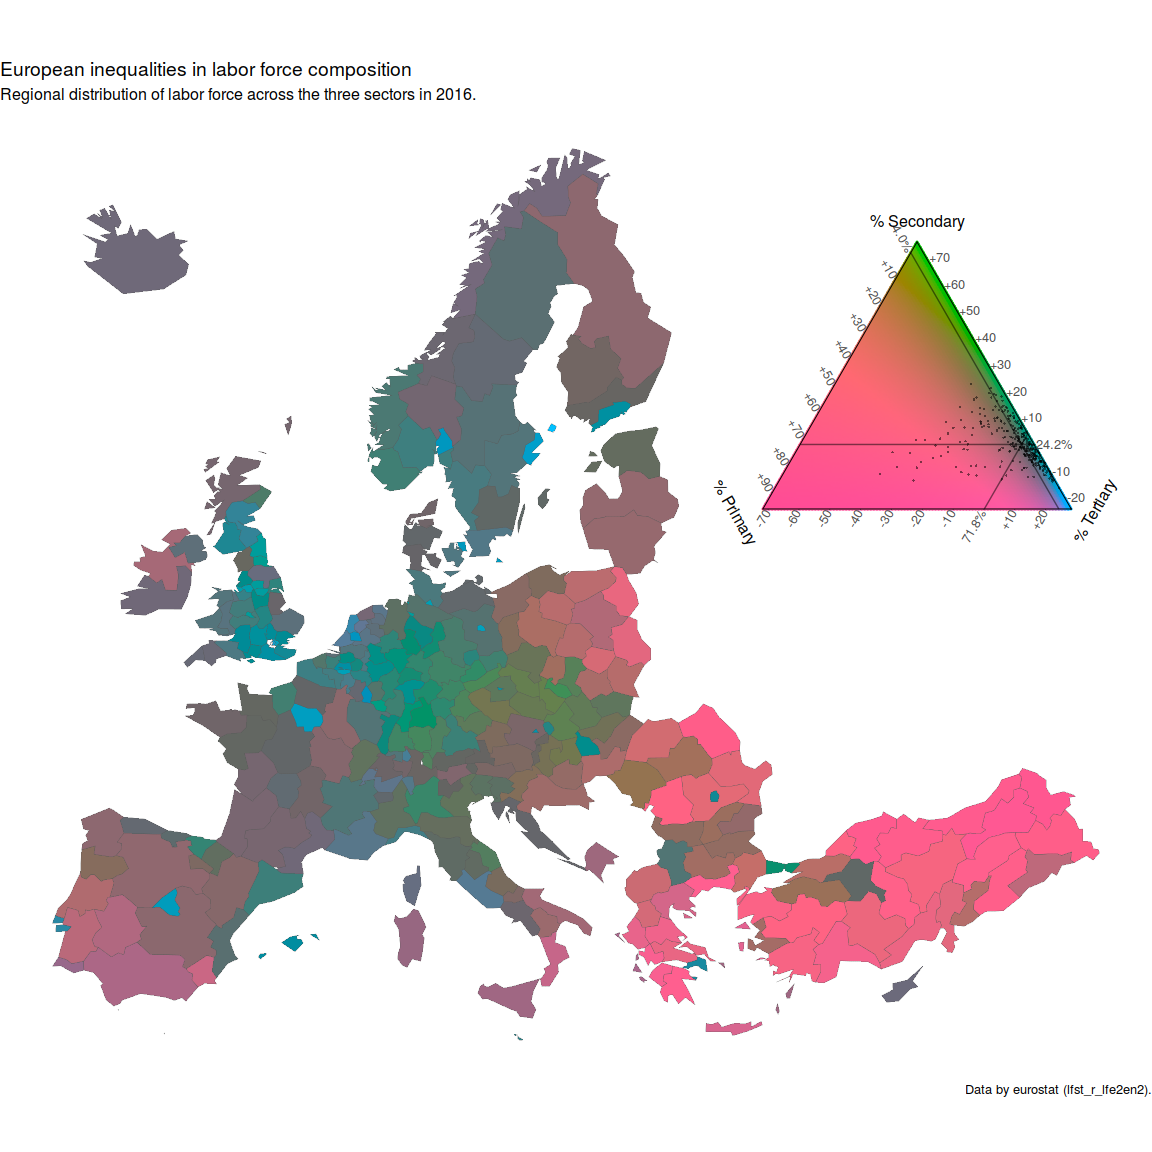
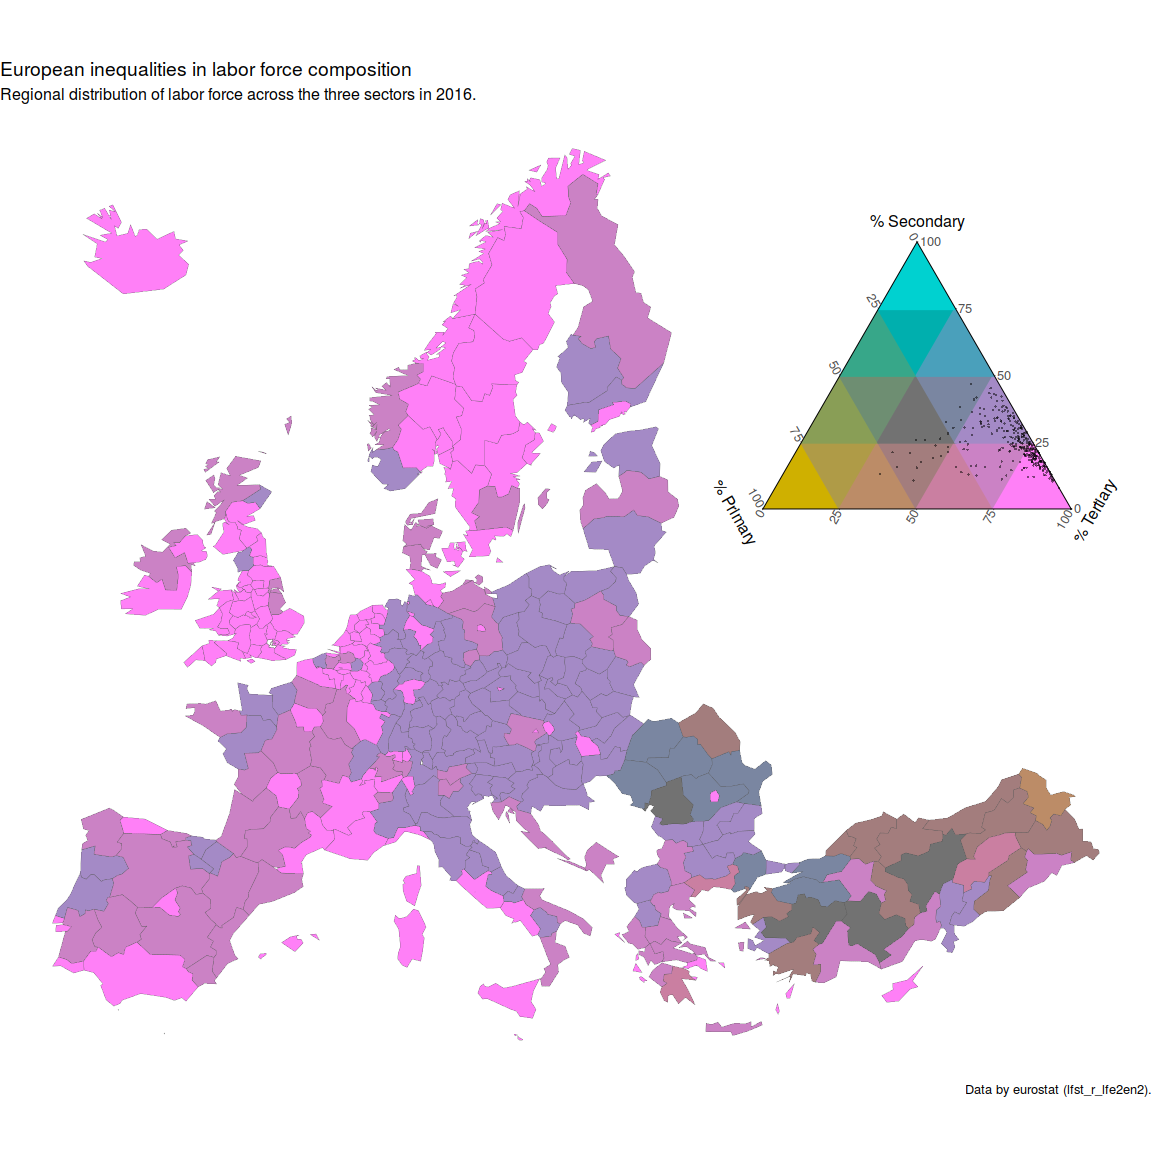
Change Defaults

diff --git a/README.md b/README.md
@@ -9,10 +9,10 @@ What is *tricolore*?
 
 `tricolore` is an R library providing a flexible color scale for the visualization of three-part (ternary) compositions. Its main functionality is to color-code any ternary composition as a mixture of three primary colours and to draw a suitable color-key. `tricolore` flexibly adapts to different visualization challenges via
 
--   discrete and continuous color support,
+-   *discrete* and *continuous* color support,
 -   support for unbalanced compositional data via *centering*,
 -   support for data with very narrow range via *scaling*,
--   hue, chroma and lightness options.
+-   *hue*, *chroma* and *lightness* options.
 
 ![](README_files/teaser.png)
 
@@ -39,7 +39,7 @@ colors_and_legend <- Tricolore(P, 'V1', 'V2', 'V3')
 head(colors_and_legend$hexsrgb)
 ```
 
-    ## [1] "#507B92FF" "#7781CDFF" "#766764FF" "#527888FF" "#796667FF" "#7E666FFF"
+    ## [1] "#BC8C67FF" "#A37D7DFF" "#7A86A1FF" "#7A86A1FF" "#4AA0BBFF" "#727272FF"
 
 ``` r
 colors_and_legend$legend
@@ -61,8 +61,7 @@ The data set `euro_example` contains the administrative boundaries for the Europ
 ``` r
 # color-code the data set and generate a color-key
 tric_educ <- Tricolore(euro_example,
-                       p1 = 'ed_0to2', p2 = 'ed_3to4', p3 = 'ed_5to8',
-                       show_center = FALSE)
+                       p1 = 'ed_0to2', p2 = 'ed_3to4', p3 = 'ed_5to8')
 ```
 
 `tric` contains both a vector of color-coded compositions (`tric$hexsrgb`) and the corresponding color key (`tric$legend`). We add the vector of colors to the map-data.
@@ -80,11 +79,12 @@ The secret ingredient is `scale_fill_identity()` to make sure that each region i
 library(ggplot2)
 
 plot_educ <-
-  # using data `euro_educ_map`...
+  # using data sf data `euro_example`...
   ggplot(euro_example) +
-  # ...draw a polygon for each `group` along `long` and `lat`...
+  # ...draw a choropleth map
   geom_sf(aes(fill = educ_rgb), size = 0.1) +
-  # ...and color each region according to the color code in the variable `rgb`
+  # ...and color each region according to the color-code
+  # in the variable `educ_rgb`
   scale_fill_identity()
 
 plot_educ 
@@ -113,7 +113,6 @@ plot_educ <-
   annotation_custom(
     ggplotGrob(
       tric_educ$legend +
-        theme(plot.background = element_rect(fill = NA, color = NA)) +
         labs(L = '0-2', T = '3-4', R = '5-8')),
     xmin = 55e5, xmax = 75e5, ymin = 8e5, ymax = 80e5
   )
@@ -138,25 +137,21 @@ plot_educ +
 Continuous vs. discrete colors
 ------------------------------
 
-By default `tricolore` uses a continuous colors scale. This can be changed via the `breaks` parameter. A value of 4 gives a discrete scale of 4<sup>2</sup> = 16 colors.
+By default `tricolore` uses a discrete colors scale with 16 colors. This can be changed via the `breaks` parameter. A value of `Inf` gives a continuous color scale...
 
 ``` r
 # color-code the data set and generate a color-key
 tric_educ_disc <- Tricolore(euro_example,
                             p1 = 'ed_0to2', p2 = 'ed_3to4', p3 = 'ed_5to8',
-                    breaks = 4, show_center = FALSE)
+                            breaks = Inf)
 euro_example$educ_rgb_disc <- tric_educ_disc$hexsrgb
 
-# using data `euro_educ_map`...
 ggplot(euro_example) +
-  # ...draw a polygon for each `group` along `long` and `lat`...
   geom_sf(aes(fill = educ_rgb_disc), size = 0.1) +
-  # ...and color each region according to the color code in the variable `rgb`
   scale_fill_identity() +
   annotation_custom(
     ggplotGrob(
       tric_educ_disc$legend +
-        theme(plot.background = element_rect(fill = NA, color = NA)) +
         labs(L = '0-2', T = '3-4', R = '5-8')),
     xmin = 55e5, xmax = 75e5, ymin = 8e5, ymax = 80e5
   ) +
@@ -169,25 +164,48 @@ ggplot(euro_example) +
 
 ![](README_files/figure-markdown_github/unnamed-chunk-10-1.png)
 
+...and a `breaks = 2` gives a discrete color scale with 2<sup>2</sup> = 9 colors.
+
+``` r
+# color-code the data set and generate a color-key
+tric_educ_disc <- Tricolore(euro_example,
+                            p1 = 'ed_0to2', p2 = 'ed_3to4', p3 = 'ed_5to8',
+                            breaks = 2)
+euro_example$educ_rgb_disc <- tric_educ_disc$hexsrgb
+
+ggplot(euro_example) +
+  geom_sf(aes(fill = educ_rgb_disc), size = 0.1) +
+  scale_fill_identity() +
+  annotation_custom(
+    ggplotGrob(
+      tric_educ_disc$legend +
+        labs(L = '0-2', T = '3-4', R = '5-8')),
+    xmin = 55e5, xmax = 75e5, ymin = 8e5, ymax = 80e5
+  ) +
+  theme_void() +
+  coord_sf(datum = NA) +
+  labs(title = 'European inequalities in educational attainment',
+       subtitle = 'Regional distribution of ISCED education levels for people aged 25-64 in 2016.',
+       caption = 'Data by eurostat (edat_lfse_04).')
+```
+
+![](README_files/figure-markdown_github/unnamed-chunk-11-1.png)
+
 Ternary centering
 -----------------
 
 While the ternary balance scheme allows for dense yet clear visualizations of *well spread out* ternary compositions the technique is less informative when used with highly *unbalanced data*. The map below shows the regional labor force composition in Europe as of 2016 in nearly monochromatic colors, the different shades of blue signifying a working population which is concentrated in the tertiary (services) sector. Regions in Turkey and Eastern Europe show a somewhat higher concentration of workers in the primary (production) sector but overall the data shows little variation with regards to the *visual reference point*, i.e. the greypoint marking perfectly balanced proportions.
 
 ``` r
-tric_lf_non_centered <-
-  Tricolore(euro_example, 'lf_pri', 'lf_sec', 'lf_ter', show_center = FALSE)
+tric_lf_non_centered <- Tricolore(euro_example, 'lf_pri', 'lf_sec', 'lf_ter')
 
 euro_example$rgb_lf_non_centered <- tric_lf_non_centered$hexsrgb
 
 ggplot(euro_example) +
-  # ...draw a polygon for each `group` along `long` and `lat`...
   geom_sf(aes(fill = rgb_lf_non_centered), size = 0.1) +
-  # ...and color each region according to the color code in the variable `rgb`
   scale_fill_identity() +
   annotation_custom(
     ggplotGrob(tric_lf_non_centered$legend +
-                 theme(plot.background = element_rect(fill = NA, color = NA)) +
                  labs(L = '% Primary', T = '% Secondary', R = '% Tertiary')),
     xmin = 55e5, xmax = 75e5, ymin = 8e5, ymax = 80e5
   ) +
@@ -198,7 +216,7 @@ ggplot(euro_example) +
        caption = 'Data by eurostat (lfst_r_lfe2en2).')
 ```
 
-![](README_files/figure-markdown_github/unnamed-chunk-11-1.png)
+![](README_files/figure-markdown_github/unnamed-chunk-12-1.png)
 
 A remedy for analyzing data which shows little variation in relation to some reference point is to *change the point of reference*. The map below yet again shows the European regional labor force composition in 2016 but the color scale has been altered so that its greypoint -- the visual point of reference -- is positioned at the European annual average. Consequently the colors now show direction and magnitude of the deviation from the European average labor force composition. Pink, Green and Blue hues show a higher than average share of workers in the primary, secondary and tertiary sector respectively. The saturation of the colors show the magnitude of that deviation with perfect grey marking a region that has a labor force composition equal to the European average, i.e. the reference point.
 
@@ -208,19 +226,16 @@ Centering the color scale over the labor-force composition of the average Europe
 tric_lf_centered <-
   Tricolore(euro_example,
             'lf_pri', 'lf_sec', 'lf_ter',
-            center = NA, show_center = TRUE, label_as = 'pct_diff')
+            center = NA, crop = TRUE)
 
 euro_example$rgb_lf_centered <- tric_lf_centered$hexsrgb
 
 ggplot(euro_example) +
-  # ...draw a polygon for each `group` along `long` and `lat`...
   geom_sf(aes(fill = rgb_lf_centered), size = 0.1) +
-  # ...and color each region according to the color code in the variable `rgb`
   scale_fill_identity() +
   annotation_custom(
     ggplotGrob(
       tric_lf_centered$legend +
-        theme(plot.background = element_rect(fill = NA, color = NA)) +
         labs(L = '% Primary', T = '% Secondary', R = '% Tertiary')),
     xmin = 55e5, xmax = 75e5, ymin = 8e5, ymax = 80e5
   ) +
@@ -231,4 +246,4 @@ ggplot(euro_example) +
        caption = 'Data by eurostat (lfst_r_lfe2en2).')
 ```
 
-![](README_files/figure-markdown_github/unnamed-chunk-12-1.png)
+![](README_files/figure-markdown_github/unnamed-chunk-13-1.png)
